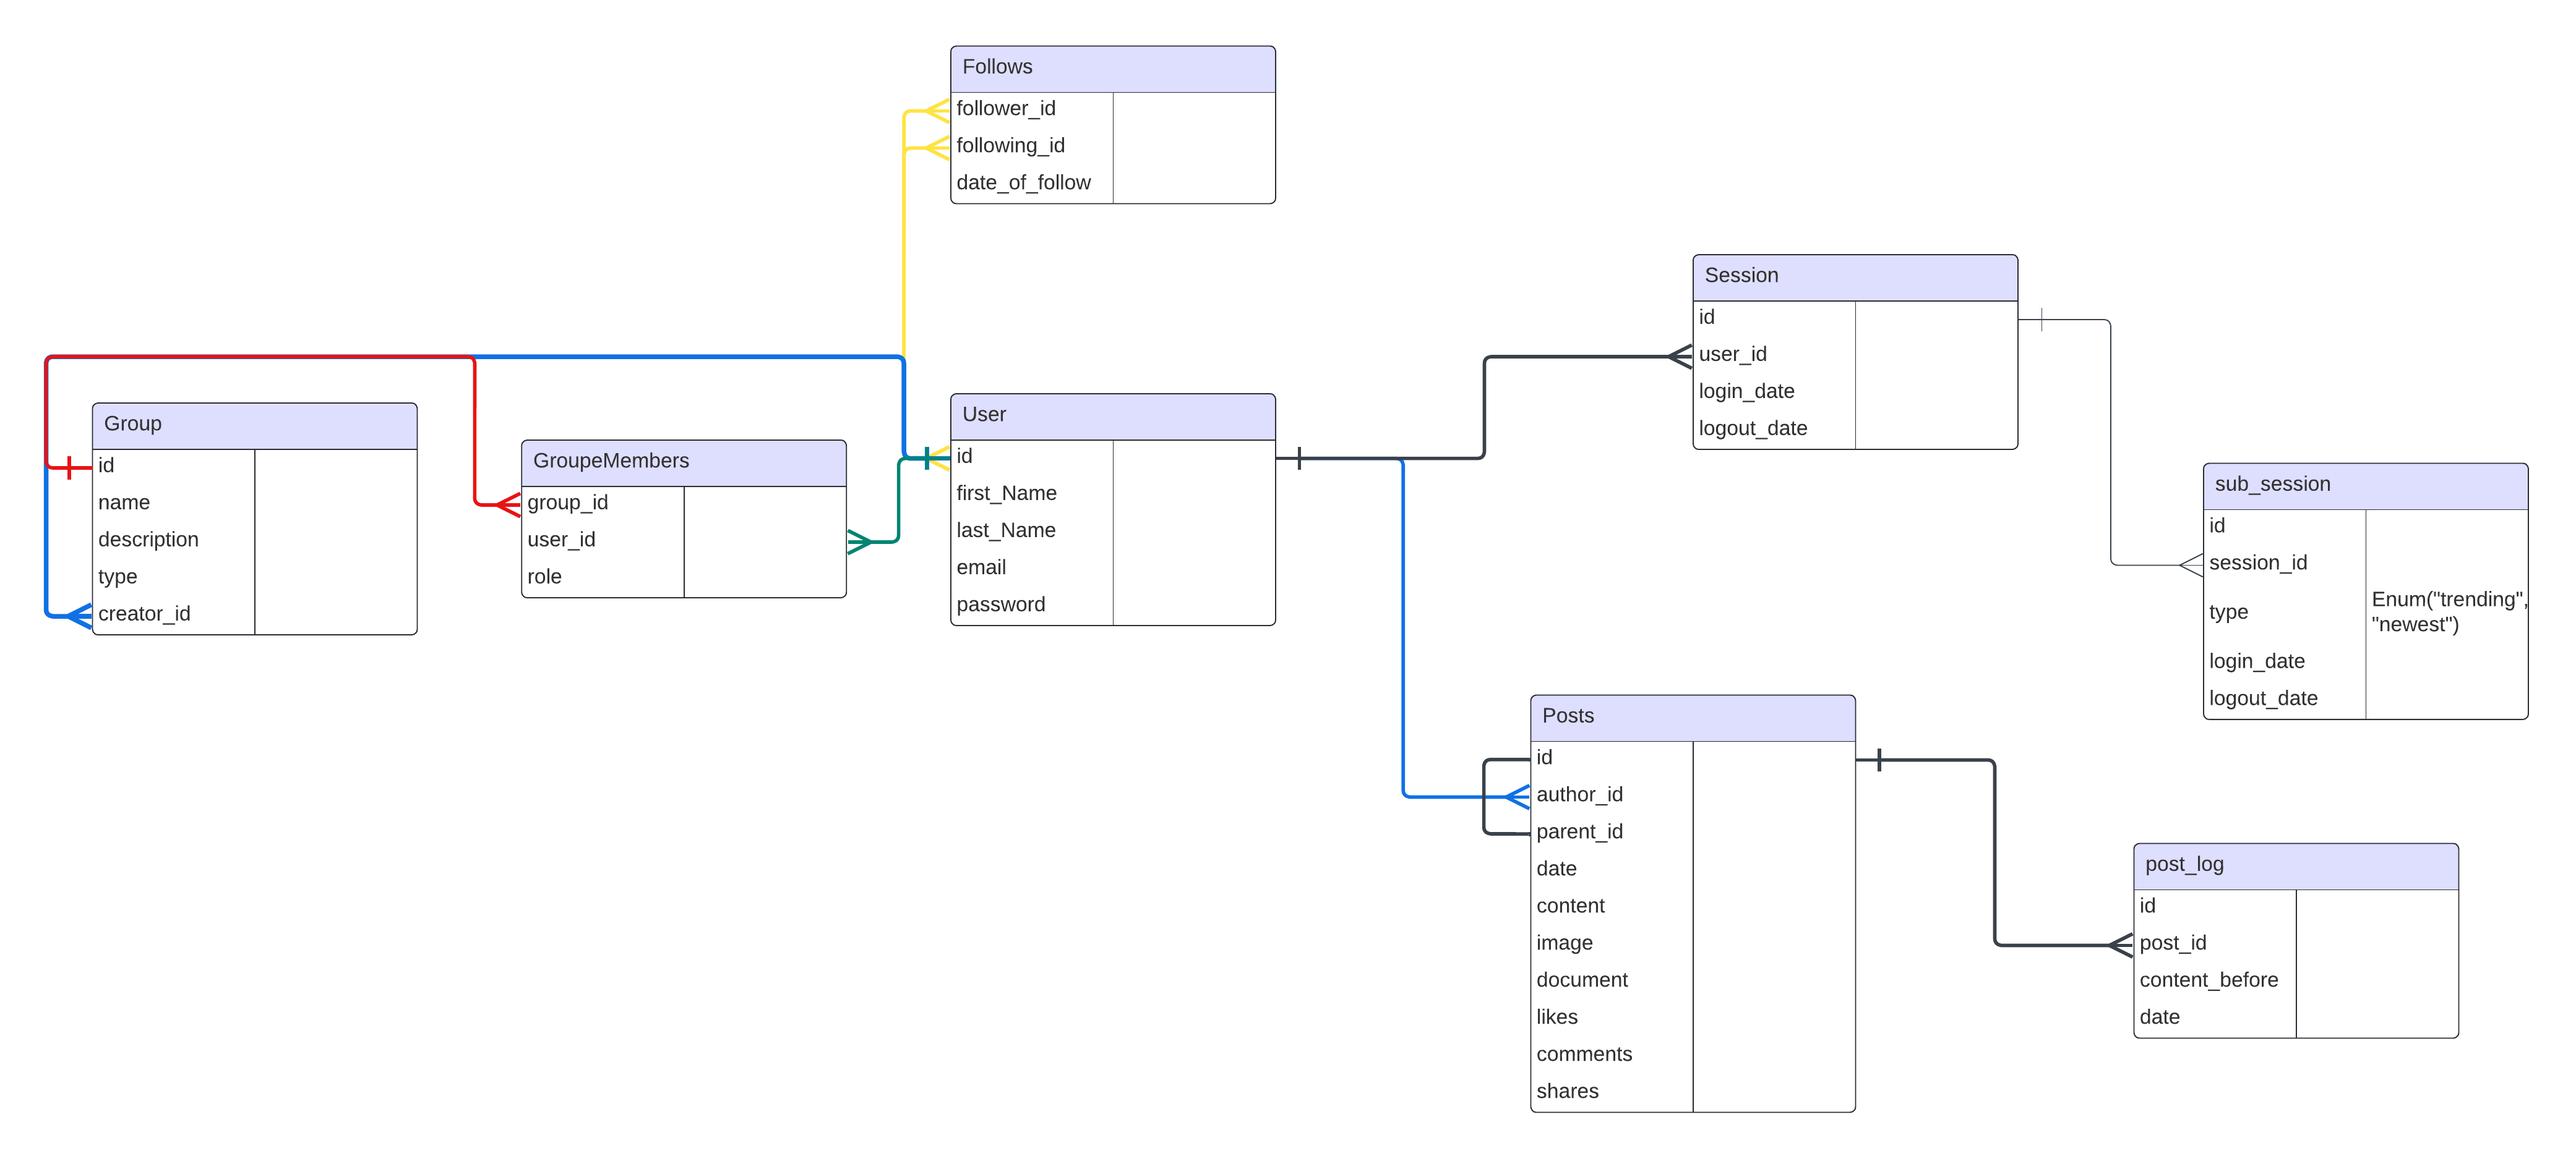
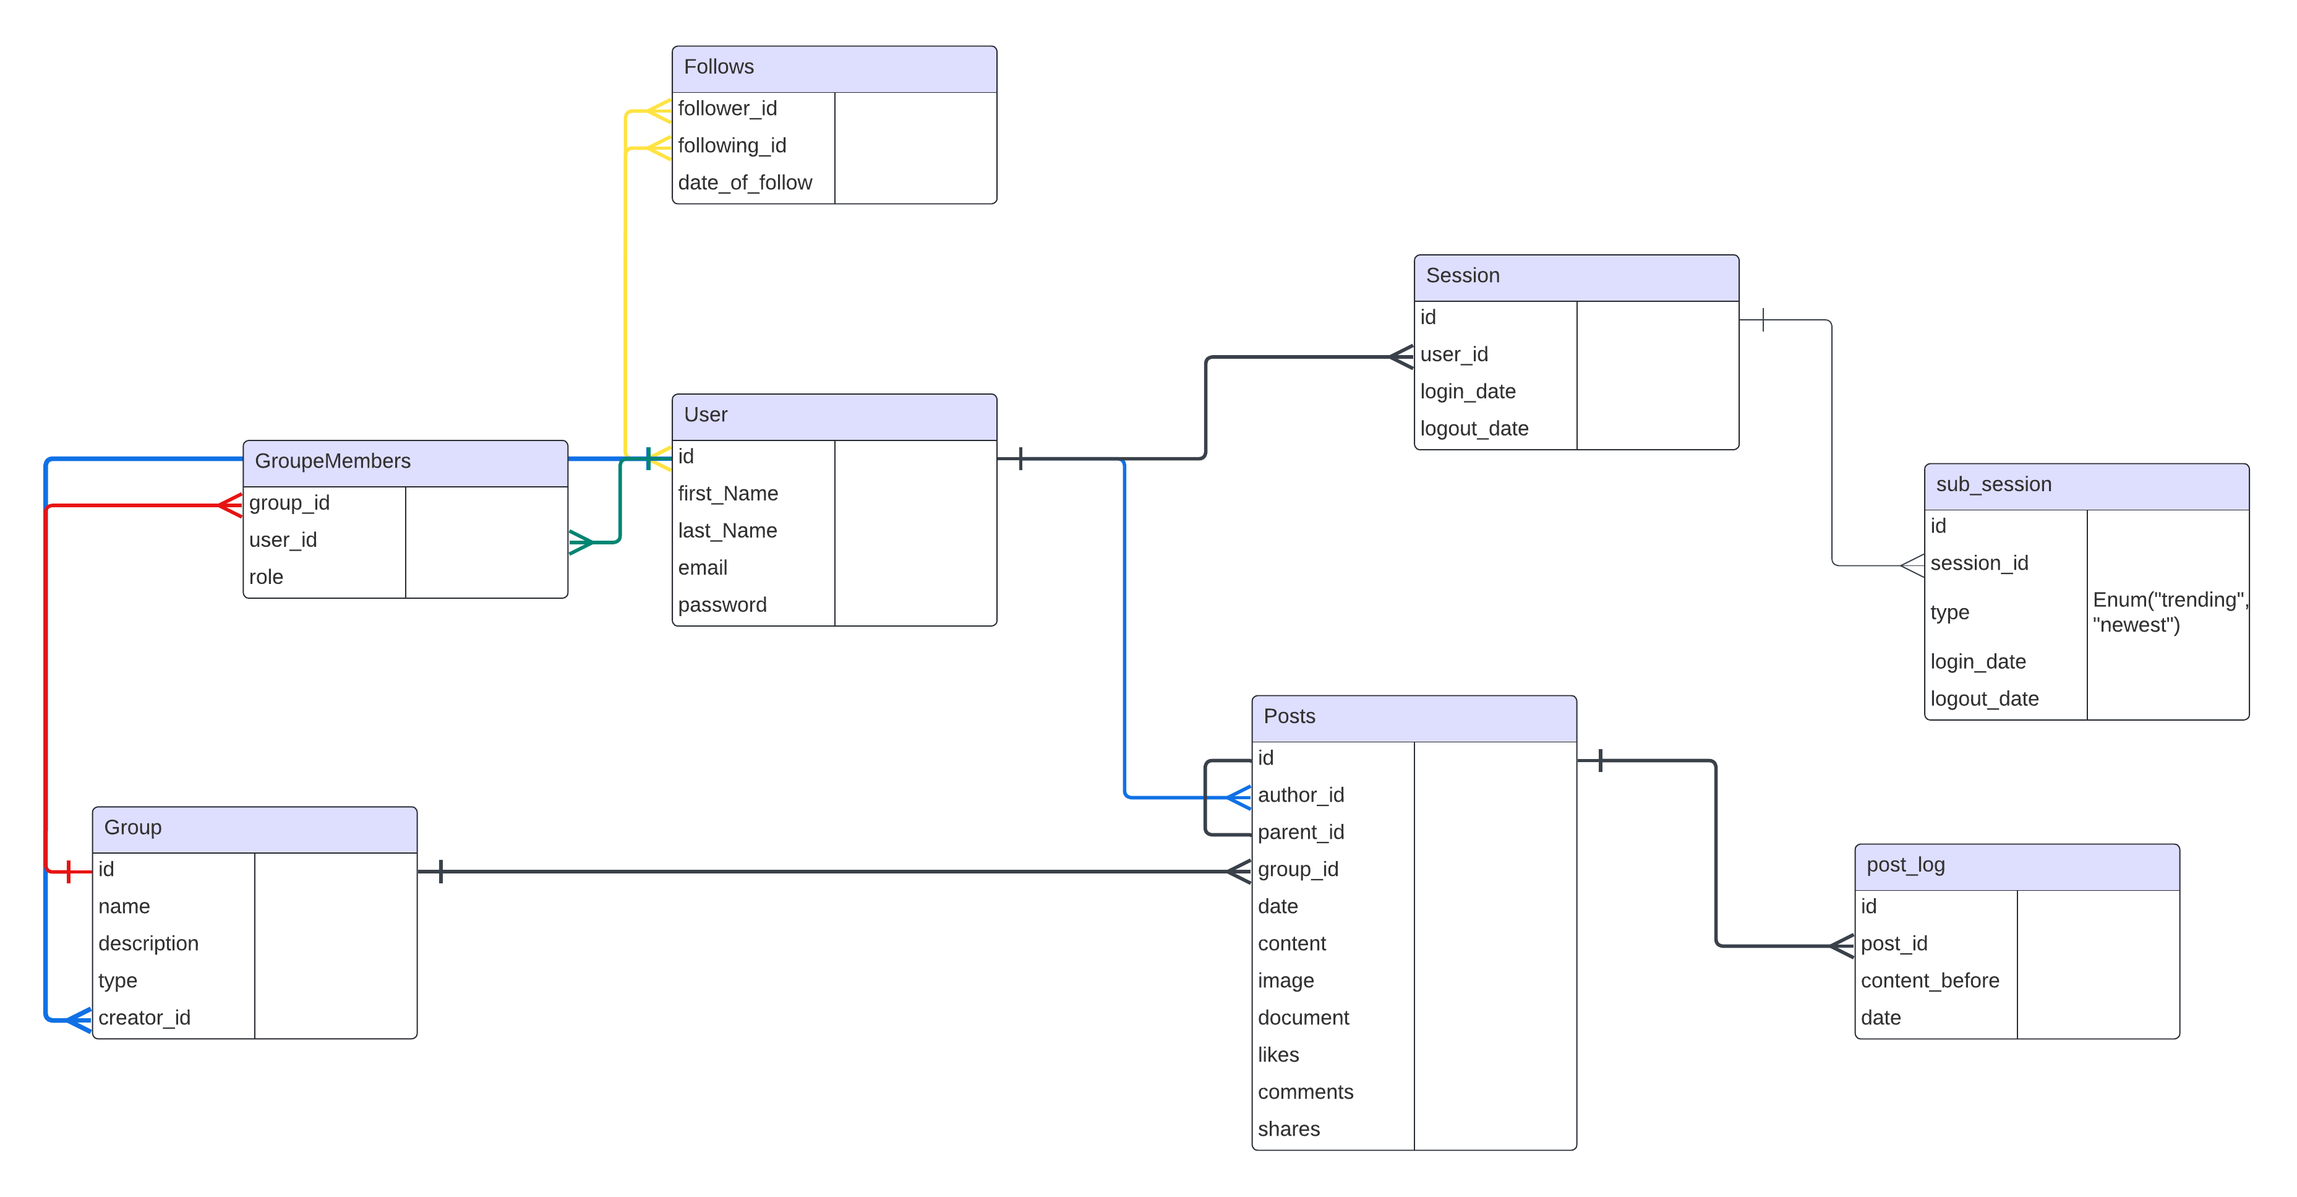
relationship between groups and posts

diff --git a/Query's.md b/Query's.md
@@ -1,9 +1,122 @@
+### Create the database:
 
+```sql
+CREATE DATABASE miniature;
+```
+
+### Access database:
+
+```sql
+\c miniature
+```
+
+### Create the Users table:
+
+```sql
+CREATE TABLE Users (
+id SERIAL PRIMARY KEY,
+first_name VARCHAR(10),
+last_name VARCHAR(10),
+email VARCHAR(150) UNIQUE,
+password VARCHAR(150),
+followers_count INT,
+following_count INT
+);
+```
+
+### Create Posts Table:
+
+```sql
+CREATE TABLE Posts (
+id SERIAL PRIMARY KEY,
+author_id INT REFERENCES Users(id),
+parent_id INT REFERENCES Posts(id),
+post_date timestamp,
+content TEXT,
+image VARCHAR(50),
+document VARCHAR(50),
+likes INT,
+comments INT,
+shares INT
+);
+```
+
+### Create Follows Table:
+
+```sql
+CREATE TABLE Follows (
+follower_id INT REFERENCES Users(id),
+following_id INT REFERENCES Users(id),
+date_of_follow timestamp
+);
+```
+
+### Create Groups Table:
+
+```sql
+CREATE TYPE type AS ENUM ('Public', 'Private');
+
+CREATE TABLE Groups (
+id SERIAL PRIMARY KEY,
+creator_id INT REFERENCES Users(id),
+name VARCHAR(10),
+description TEXT,
+type type
+);
+```
+
+### Create GroupMembers Table:
+
+```sql
+CREATE TYPE Roles AS ENUM ('Super user','Administrator','Moderator','Editor','Visitor');
+
+CREATE TABLE GroupMembers (
+group_id INT REFERENCES Groups(id),
+user_id INT REFERENCES Users(id),
+role Roles
+);
+```
+
+### Create Session Table:
+
+```sql
+CREATE TABLE Session (
+id SERIAL PRIMARY KEY,
+user_id INT REFERENCES Users(id),
+login_date timestamp,
+logout_date timestamp
+);
+```
+
+### Create post_log Table:
+
+```sql
+CREATE TABLE Post_log (
+id SERIAL PRIMARY KEY,
+post_id INT REFERENCES Posts(id),
+content_before TEXT,
+log_date timestamp
+);
+```
+
+### Create Sub_session:
+
+```sql
+CREATE TYPE session_type AS ENUM ('trending', 'newest');
+
+CREATE TABLE Sub_session (
+id SERIAL PRIMARY KEY,
+session_id INT REFERENCES Session(id),
+type session_type,
+login_date timestamp,
+logout_date timestamp
+);
+```
 
 ### Create an account:
 
 ```sql
- INSERT INTO Users(first_Name, last_Name, email, password) VALUES ('Omer', 'Hamad', 'omerhamad1o1@gmail.com', 'mypassword');
+INSERT INTO Users(first_Name, last_Name, email, password) VALUES ('Omer', 'Hamad', 'omerhamad1o1@gmail.com', 'mypassword');
 ```
 
 ### Create a post:
@@ -21,49 +134,32 @@ INSERT INTO Comments (post_id, author_id, content, comment_date) VALUES (1, 1, '
 ### Show 10 posts from end user:
 
 ```sql
-   SELECT * FROM posts
-   WHERE author_id = 'user id' 
-   ORDER BY date 
-   DESC LIMIT 10 OFFSET 0;
+SELECT * FROM posts
+WHERE author_id = 'user id' 
+ORDER BY date DESC LIMIT 10 OFFSET 0;
 ```
 
 ### Show user info:
 
 ```sql
- SELECT *
- FROM Users
- WHERE id = 1;
+SELECT *
+FROM Users
+WHERE id = 1;
 ```
 
 ### Show post:
 
 ```sql
-CREATE VIEW PostDetails
-AS SELECT p.id 
-AS post_id, p.content 
-AS post_content, p.image 
-AS post_image, p.document 
-AS post_document, p.likes 
-AS post_likes, p.comments 
-AS post_comments, c.id 
-AS comment_id, c.content 
-AS comment_content, c.likes 
-AS comment_likes, u.id 
-AS user_id, u.first_name 
-AS user_first_name, u.last_name 
-AS user_last_name 
-FROM Posts p LEFT 
-JOIN Comments c ON p.id = c.post_id 
-JOIN Users u ON p.author_id = u.id;
-```
+CREATE VIEW PostDetails AS 
+SELECT p.id AS post_id, p.content AS post_content, p.image AS post_image, p.document AS post_document, p.likes AS post_likes, p.comments AS post_comments, c.id AS comment_id, c.content AS comment_content, c.likes AS comment_likes, u.id AS user_id, u.first_name AS user_first_name, u.last_name AS user_last_name 
+FROM Posts p LEFT JOIN Comments c ON p.id = c.post_id JOIN Users u ON p.author_id = u.id;
 
-```sql
 SELECT *
 FROM PostDetails
 WHERE post_id = 1;
 ```
 
-### Show popular posts in the last 24h :
+### Show popular posts in the last 24h:
 
 ```sql
 SELECT id AS post_id, likes AS total_likes
@@ -71,7 +167,6 @@ FROM Posts
 WHERE post_date >= CURRENT_TIMESTAMP - INTERVAL '24 hours'
 ORDER BY likes DESC
 LIMIT 10 OFFSET 0;
-
 ```
 
 ### Show recent posts:
@@ -86,9 +181,9 @@ LIMIT 10 OFFSET 0;
 ### Search for User:
 
 ```sql
- SELECT * 
- FROM Users
-   WHERE first_Name ILIKE '%omer%' OR last_Name ILIKE '%omer%' OR email ILIKE '%omer%';
+SELECT * 
+FROM Users
+WHERE first_Name ILIKE '%omer%' OR last_Name ILIKE '%omer%' OR email ILIKE '%omer%';
 ```
 
 ### Search for post by keyword:
@@ -96,41 +191,29 @@ LIMIT 10 OFFSET 0;
 ```sql
 SELECT *
 FROM posts
-   WHERE content ILIKE '%FIRST%';
+WHERE content ILIKE '%FIRST%';
 ```
 
 ### Create a group:
- ```sql
-  INSERT INTO Groups (creator_id, name, description, type) VALUES (1, 'Rick', 'You still have the right to take Anything you want seriously !!', 'Public');
+
+```sql
+INSERT INTO Groups (creator_id, name, description, type) VALUES (1, 'Rick', 'You still have the right to take Anything you want seriously !!', 'Public');
 ```
 
 ### Filter Posts by Date and Author:
-   ```sql
-   SELECT * FROM posts
-   WHERE date >= 'start_date' AND date <= 'end_date' AND author_id = 'author_id'
-
-```
-
-### Change Group name:
 
 ```sql
-   ALTER TABLE Group
-   RENAME COLUMN old_name TO new_name
-   ```
-
-### Update description:
-   ```sql
-   UPDATE Group
-   SET "description or visibilité" = "x"
-   WHERE group_id = "x"
+SELECT * FROM posts
+WHERE date >= 'start_date' AND date <= 'end_date' AND author_id = 'author_id';
 ```
 
 ### Add users into a group:
-   ```sql
-   INSERT INTO GroupeMembers (group_id, user_id, role) VALUES ('group_id', 'user_id', 'role')
+
+```sql
+INSERT INTO GroupeMembers (group_id, user_id, role) VALUES ('group_id', 'user_id', 'role');
 ```
 
-### Average time spend by an end user:  
+### Average time spent by an end user:
 
 ```sql
 SELECT AVG(TIMESTAMPDIFF(SQL_TSI_SECOND, login_date, logout_date)) AS average_session_duration
@@ -140,12 +223,12 @@ FROM Session;
 ### Average posts number by an end user:
 
 ```sql
-   SELECT AVG(posts_per_user) AS average_posts_per_user
-   FROM (
-    SELECT user_id, COUNT(id) AS posts_per_user
-    FROM posts
-    GROUP BY user_id
-    ) AS post_counts;
+SELECT AVG(posts_per_user) AS average_posts_per_user
+FROM (
+SELECT user_id, COUNT(id) AS posts_per_user
+FROM posts
+GROUP BY user_id
+) AS post_counts;
 ```
 
 ### Average number of posts an end user have seen by session:
@@ -153,31 +236,31 @@ FROM Session;
 ```sql
 SELECT AVG(posts_viewed) AS average_posts_viewed_per_session
 FROM (
-    SELECT s.user_id, COUNT(p.id) AS posts_viewed
-    FROM Session s
-    JOIN posts p ON s.user_id = p.author_id
-    WHERE p.date BETWEEN s.login_date AND s.logout_date
-    AND p.author_id IN (SELECT following_id FROM Follows WHERE follower_id = s.user_id)
-    GROUP BY s.user_id, s.id
+SELECT s.user_id, COUNT(p.id) AS posts_viewed
+FROM Session s
+JOIN posts p ON s.user_id = p.author_id
+WHERE p.date BETWEEN s.login_date AND s.logout_date
+AND p.author_id IN (SELECT following_id FROM Follows WHERE follower_id = s.user_id)
+GROUP BY s.user_id, s.id
 ) AS post_counts;
-
 ```
 
-### Average modification on a post 
+### Average modification on a post:
+
 ```sql
 CREATE TRIGGER update_post
 BEFORE UPDATE ON Posts
 FOR EACH ROW
 BEGIN
-    INSERT INTO Post_Log (content_before, log_date)
-    VALUES (OLD.content, CURRENT_TIMESTAMP;
+INSERT INTO Post_Log (content_before, log_date)
+VALUES (OLD.content, CURRENT_TIMESTAMP;
 END;
 ```
 
-### Average time passed on news feed by type : 
+### Average time passed on news feed by type:
 
 ```sql
 SELECT AVG(TIMESTAMPDIFF(SQL_TSI_SECOND, login_date, logout_date)) AS average_session_duration
 FROM sub_session
-where type = "trending"
+where type = "trending";
 ```

diff --git a/Script sql.md b/Script sql.md
@@ -34,6 +34,7 @@ CREATE TABLE Posts (
 id SERIAL PRIMARY KEY,
 author_id INT REFERENCES Users(id),
 parent_id INT REFERENCES Posts(id),
+gorup_id INT REFERENCES Groups(id),
 post_date timestamp,
 content TEXT,
 image VARCHAR(50),
